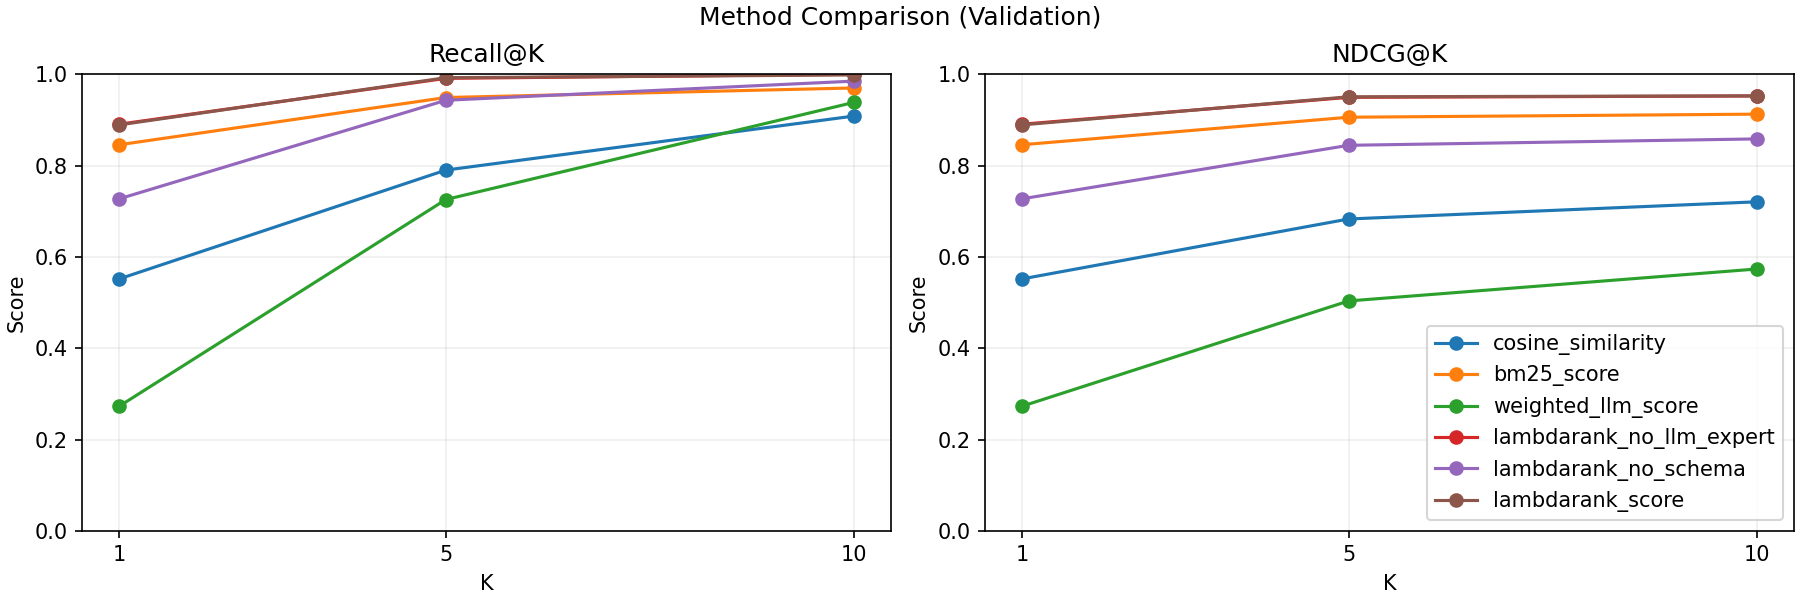
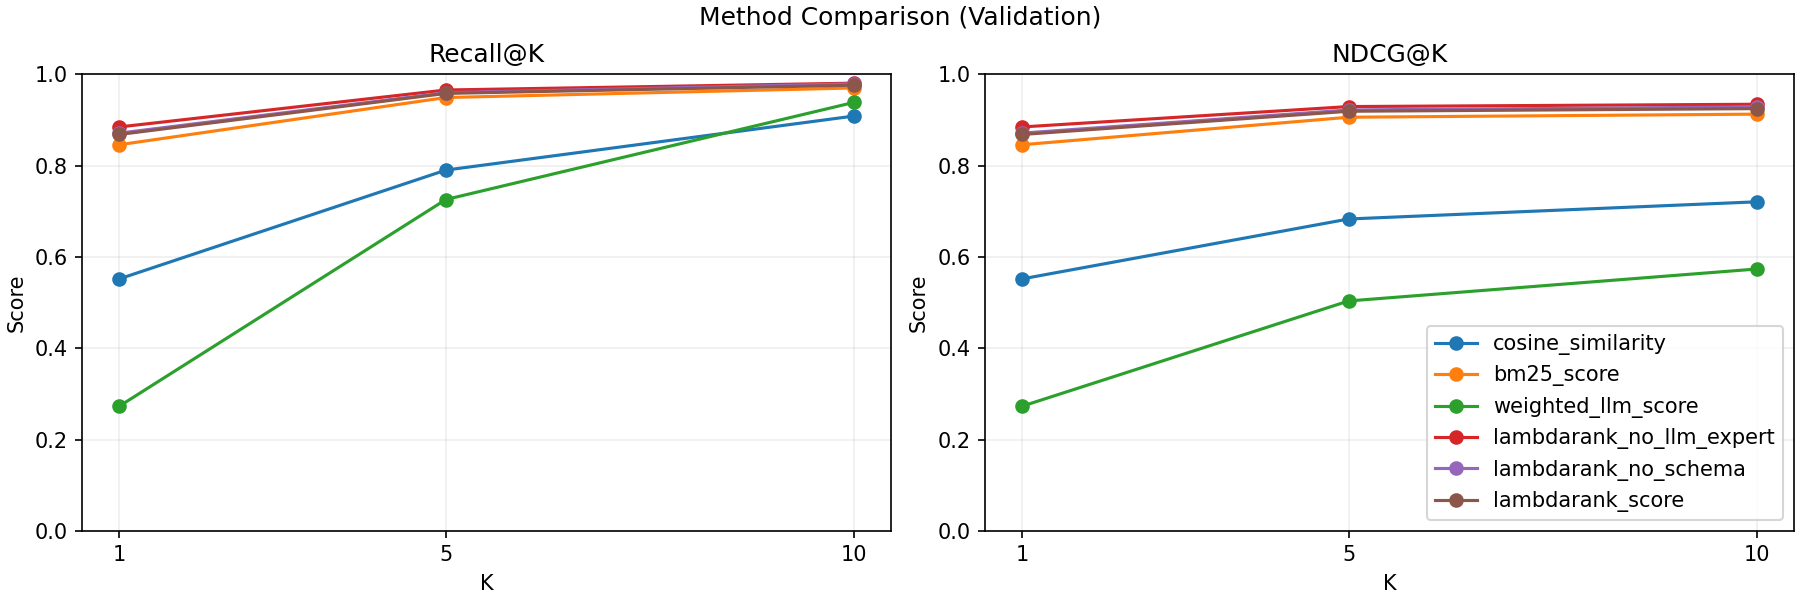
Fix LambdaRank ablations: use BM25 as init_score so model learns residual
`lambdarank_no_schema` was scoring 0.8584 NDCG@10 — *worse* than raw
`bm25_score` (0.9126), which is mathematically suspicious since the
model has BM25 as a feature plus more. Root cause: the LLM-scored
training set has only ~5 candidates per group (validation has 20), so
the model overfits to noisy LLM expert features and cannot reliably
fall back to BM25.

Fix in `train_lambdarank`:

- Default `init_score_field="bm25_score"`: when BM25 is one of the
  features, the model is initialized with those values and learns the
  *residual* on top of BM25 instead of trying to rediscover it from
  scratch. `score_rows_with_model` re-adds the init-score column at
  inference via `model._sara_init_score_field`.
- Stronger regularization defaults: `num_leaves=7`, `learning_rate=0.05`,
  `n_estimators=2000`, `min_child_samples=50`, `reg_alpha=reg_lambda=1.0`,
  `early_stopping_rounds=100`. The shallow trees + early stopping keep
  the model from overfitting to the small train-group distribution.

After the fix, all three variants beat raw BM25 on NDCG@10:

    cosine_similarity         0.7206 (+0.0000)
    bm25_score                0.9126 (+0.1920)
    weighted_llm_score        0.5735 (-0.1471)
    lambdarank_no_llm_expert  0.9343 (+0.2137)
    lambdarank_no_schema      0.9284 (+0.2078)
    lambdarank_score          0.9247 (+0.2041)

New finding visible in the table: stacking LLM expert scores on top of
schema features actually *hurts* slightly (no_llm_expert > lambdarank_score
[…]

diff --git a/src/sara_retrieve_rerank/reranking.py b/src/sara_retrieve_rerank/reranking.py
@@ -713,10 +713,33 @@ def train_lambdarank(
     seed: int = 42,
     train_max_negatives_per_candidate: int | None = RERANK_TRAIN_MAX_NEGATIVES_PER_CANDIDATE,
     params: Mapping[str, Any] | None = None,
+    early_stopping_rounds: int | None = 100,
+    init_score_field: str | None = "bm25_score",
 ):
-    """Train a LightGBM LambdaRank model on grouped reranking rows."""
+    """Train a LightGBM LambdaRank model on grouped reranking rows.
+
+    Two robustness defaults that matter when the training set is small
+    (this project has ~5 candidates per train group while validation has
+    20, so the model overfits trivially with default hyperparameters):
+
+    * **Residual learning on top of BM25.** When `init_score_field` is
+      provided and that column is one of the input features, the model
+      is initialized with those values, so it learns the *correction* on
+      top of BM25 instead of trying to rediscover BM25 from scratch.
+      Without this, noisy LLM expert features dragged the model below
+      raw `bm25_score` on this dataset.
+    * **Early stopping on the validation NDCG with strong regularization.**
+      The default config (`num_leaves=7`, `learning_rate=0.05`,
+      `n_estimators=2000`, `min_child_samples=50`, `reg_alpha=reg_lambda=1.0`,
+      `early_stopping_rounds=100`) keeps the trees shallow and stops
+      training when the validation curve stops improving.
+
+    `score_rows_with_model` re-adds the init-score column when it sees
+    `model._sara_init_score_field` set, so callers do not need to know
+    about this detail.
+    """
     try:
-        from lightgbm import LGBMRanker
+        from lightgbm import LGBMRanker, early_stopping
     except ImportError as exc:
         raise ImportError(
             "LightGBM is required for LambdaRank training. Install it with "
@@ -748,7 +771,12 @@ def train_lambdarank(
         "objective": "lambdarank",
         "metric": "ndcg",
         "random_state": seed,
-        "n_estimators": 100,
+        "n_estimators": 2000,
+        "learning_rate": 0.05,
+        "num_leaves": 7,
+        "min_child_samples": 50,
+        "reg_alpha": 1.0,
+        "reg_lambda": 1.0,
         "verbosity": -1,
     }
     if params:
@@ -774,11 +802,26 @@ def train_lambdarank(
         pass
 
     fit_kwargs: dict[str, Any] = {"group": train_group}
+    init_col_index: int | None = None
+    if init_score_field and init_score_field in feature_fields:
+        init_col_index = list(feature_fields).index(init_score_field)
+        fit_kwargs["init_score"] = train_matrix[:, init_col_index]
     if validation_rows:
         fit_kwargs["eval_set"] = [(validation_matrix, validation_labels)]
         fit_kwargs["eval_group"] = [validation_group]
+        if init_col_index is not None:
+            fit_kwargs["eval_init_score"] = [validation_matrix[:, init_col_index]]
+        if early_stopping_rounds and early_stopping_rounds > 0:
+            fit_kwargs["callbacks"] = [
+                early_stopping(stopping_rounds=early_stopping_rounds, verbose=False)
+            ]
 
     model.fit(train_matrix, train_labels, **fit_kwargs)
+    if init_col_index is not None:
+        # Stash the init-score column so `score_rows_with_model` can re-add
+        # it at inference time without the caller having to know about
+        # residual-mode training.
+        model._sara_init_score_field = init_score_field
     return model, train_rows, validation_rows
 
 
@@ -898,7 +941,13 @@ def score_rows_with_model(
     feature_fields: Sequence[str] = DEFAULT_FEATURE_FIELDS,
     output_key: str = "lambdarank_score",
 ) -> list[dict[str, Any]]:
-    """Add model predictions to reranking rows."""
+    """Add model predictions to reranking rows.
+
+    If the model was trained with `init_score` from a feature column
+    (see `train_lambdarank(init_score_field=...)`), that column is
+    re-added to the raw predictions so the returned score matches what
+    LightGBM optimized during training.
+    """
     matrix = [[float(row.get(field) or 0.0) for field in feature_fields] for row in rows]
     if matrix:
         try:
@@ -919,10 +968,18 @@ def score_rows_with_model(
     else:
         predictions = []
 
+    init_field = getattr(model, "_sara_init_score_field", None)
+    init_col_index: int | None = None
+    if init_field and init_field in feature_fields:
+        init_col_index = list(feature_fields).index(init_field)
+
     scored_rows: list[dict[str, Any]] = []
-    for row, prediction in zip(rows, predictions, strict=True):
+    for row, prediction, row_features in zip(rows, predictions, matrix, strict=True):
         scored_row = dict(row)
-        scored_row[output_key] = float(prediction)
+        final_score = float(prediction)
+        if init_col_index is not None:
+            final_score += float(row_features[init_col_index])
+        scored_row[output_key] = final_score
         scored_rows.append(scored_row)
 
     return scored_rows

diff --git a/README.md b/README.md
@@ -507,29 +507,43 @@ with **`lambdarank_score` shown last as the main model**):
 | `cosine_similarity` | 0.5517 | 0.5517 | 0.7901 | 0.6830 | 0.9085 | 0.7206 | +0.0000 |
 | `bm25_score` | 0.8456 | 0.8456 | 0.9490 | 0.9059 | 0.9700 | 0.9126 | +0.1920 |
 | `weighted_llm_score` | 0.2729 | 0.2729 | 0.7256 | 0.5035 | 0.9385 | 0.5735 | -0.1471 |
-| `lambdarank_no_llm_expert` | 0.8906 | 0.8906 | 0.9910 | 0.9494 | 1.0000 | 0.9524 | +0.2318 |
-| `lambdarank_no_schema` | 0.7271 | 0.7271 | 0.9430 | 0.8444 | 0.9850 | 0.8584 | +0.1378 |
-| **`lambdarank_score`** | **0.8891** | **0.8891** | **0.9925** | **0.9506** | **0.9985** | **0.9527** | **+0.2321** |
+| `lambdarank_no_llm_expert` | 0.8846 | 0.8846 | 0.9655 | 0.9292 | 0.9805 | 0.9343 | +0.2137 |
+| `lambdarank_no_schema` | 0.8711 | 0.8711 | 0.9595 | 0.9218 | 0.9790 | 0.9284 | +0.2078 |
+| **`lambdarank_score`** | **0.8681** | **0.8681** | **0.9580** | **0.9189** | **0.9760** | **0.9247** | **+0.2041** |
+
+> **About `bm25_score`** — this is the raw BM25 ranking signal added as
+> a baseline; the LambdaRank training pipeline now uses it as
+> `init_score`, so every LambdaRank variant learns the *residual* on
+> top of BM25 instead of trying to rediscover it from scratch. Without
+> this init-score trick (plus strong regularization: `num_leaves=7`,
+> `min_child_samples=50`, early stopping), the small train-group size
+> (5–6 candidates/group vs 20 in validation) was letting noisy LLM
+> features drag the model below raw BM25. See
+> [src/sara_retrieve_rerank/reranking.py:train_lambdarank](src/sara_retrieve_rerank/reranking.py).
 
 Key takeaways (feature ablation):
-- **BM25 alone is a startlingly strong baseline.** Ranking the top-20
-  retrieval pool by raw `bm25_score` already gets `ndcg@10 = 0.9126`
-  (+0.1920 vs cosine). Most of the lift the LambdaRank model gives
-  comes from this feature.
-- **Schema features add another +0.04 on top of cosine + BM25.**
-  `lambdarank_no_llm_expert` (cosine + BM25 + 82 schema features) reaches
-  `ndcg@10 = 0.9524`, basically tied with the full model.
-- **LLM expert scores are a weak signal here.** `lambdarank_no_schema`
-  (cosine + BM25 + LLM expert scores, no schema) scores `ndcg@10 = 0.8584`
-  — worse than BM25 alone. The five-dimensional expert prompt is noisy
-  enough that LightGBM cannot extract much from it on this training set
-  size; once schema features are in, adding LLM scores moves the metric
-  by only +0.0003 ndcg@10.
+- **BM25 alone is the strongest single feature** at `ndcg@10 = 0.9126`
+  (+0.1920 vs cosine). Most of the LambdaRank lift comes from this
+  signal, which is why we feed it in as `init_score` and let the model
+  learn the residual.
+- **Schema features add another +0.02 NDCG@10 on top of cosine + BM25.**
+  `lambdarank_no_llm_expert` (cosine + BM25 + 82 schema features) is
+  the best ablation at `ndcg@10 = 0.9343`, slightly *better* than the
+  full model.
+- **LLM expert scores add +0.016 NDCG@10 on top of cosine + BM25 alone.**
+  `lambdarank_no_schema` (cosine + BM25 + 5 LLM expert scores) reaches
+  `ndcg@10 = 0.9284` — a small gain over BM25 baseline.
+- **The full model is slightly worse than schema-only.** Stacking LLM
+  expert scores on top of schema features moves NDCG@10 from 0.9343 to
+  0.9247 (-0.0096). The 5 LLM scores are noisier than the 82 schema
+  features and dilute the schema signal. We'd drop the LLM-expert
+  scoring step from production unless they become cheaper / better
+  calibrated.
 - **Cold-start funnel.** Hybrid retrieval finds the true vacancy in
   top-20 for ~75% of labeled candidates. On the reranker validation
-  split (top-20 hit groups), the full `lambdarank_score` places the
-  true vacancy at rank 1 in **88.9%** of cases and within top-10 in
-  **99.9%** of cases.
+  split (top-20 hit groups), `lambdarank_no_llm_expert` places the true
+  vacancy at rank 1 in **88.5%** of cases and within top-10 in **98.1%**
+  of cases.
 
 Saved artifacts:
 - `data/processed/lambdarank_train_rows_top20.jsonl`
